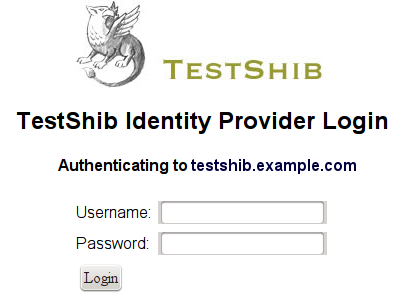
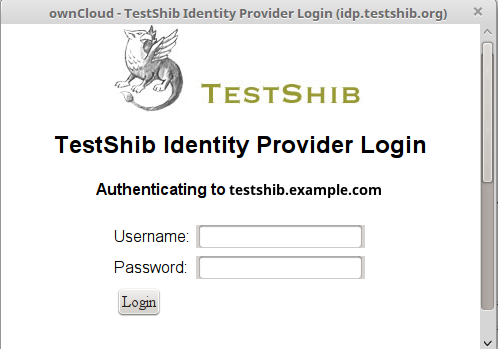
new screenshot, changes to shibboleth doc

diff --git a/admin_manual/enterprise_user_management/user_auth_shibboleth.rst b/admin_manual/enterprise_user_management/user_auth_shibboleth.rst
@@ -21,7 +21,8 @@ browser components for authentication against the IdP.
 The ownCloud desktop sync client and mobile apps store users' logins, so 
 your users only need to enter their logins the first time they set up their 
 accounts. These screenshots show what the user sees at account setup. Figure 1 
-shows a test login screen. Your login screen will probably look different.
+shows a test login screen from 
+`Testshib.org <https://www.testshib.org/index.html>`_.
 
 .. figure:: ../images/shib-gui1.png
 
@@ -34,6 +35,9 @@ connections.
 .. figure:: ../images/shib-gui4.png
 
    *figure 2: ownCloud client displays server information*
+   
+To your users, it doesn't look very different on the desktop sync client, 
+Android app, or iOS app from an ordinary ownCloud account setup.   
 
 Apache Configuration
 --------------------
